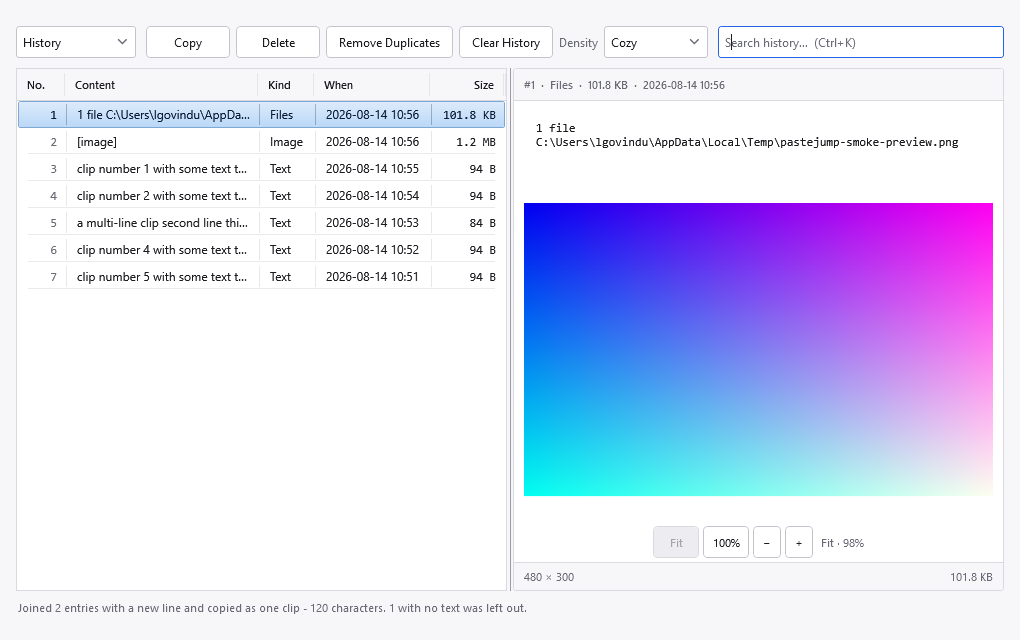
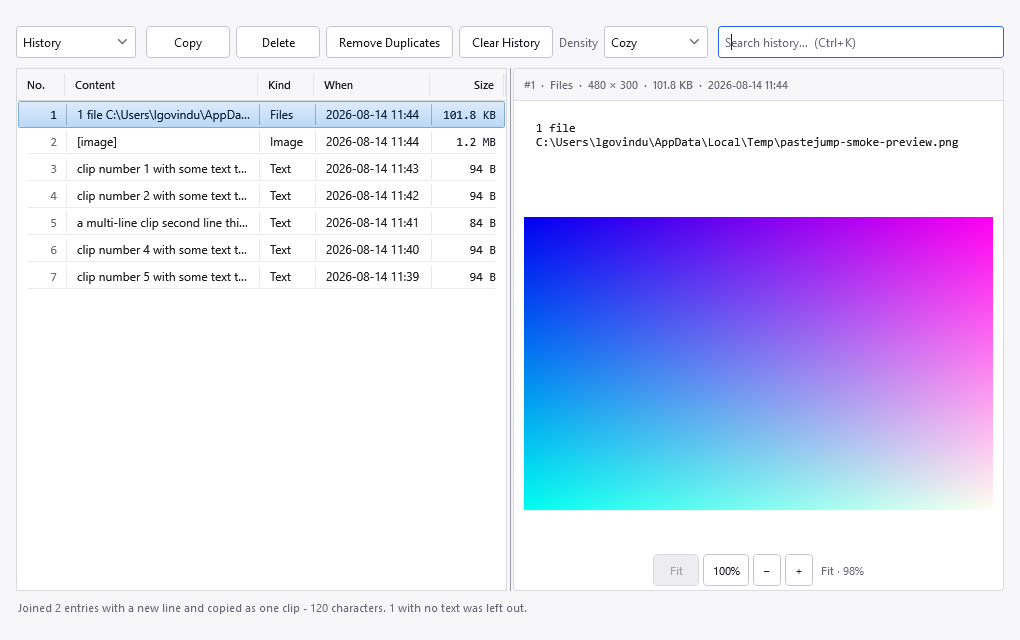
Move the resolution into the header and delete the footer
Reported: the footer's byte count all but repeats the header's, and it does -
the two differ only by the clip's other clipboard formats. Two numbers a few per
cent apart, three inches apart, is a contradiction to anyone who has not read the
storage layer.

So the footer is gone, and the resolution moved up beside the kind:

    #18 · Image · 895 × 462 · 1.6 MB · 2026-08-13 21:19

Beside the kind rather than after the size, because a resolution says what sort of
thing this is rather than how much of it there is - and it is the one fact a
picture cannot tell you about itself.

The format breakdown is not lost, only demoted to that line's tooltip, and only
when there is more than one format to explain. Yesterday's labelled version was
still two numbers competing for attention; a tooltip is available to whoever
wondered and free to everyone else.

The picture also gains the footer's 28px, which for a pane whose whole job is
showing a picture is the right owner of that space.

845 + 52 tests green in Release, smoke clean, both themes rendered, help and
screenshots updated. Running copy 2026.1.0.150.

diff --git a/src/PasteJump.App/Views/HistoryWindow.xaml b/src/PasteJump.App/Views/HistoryWindow.xaml
@@ -290,10 +290,15 @@
                     BorderThickness="1"
                     CornerRadius="3">
                 <Grid>
+                    <!--
+                        Two rows: the header and the content. There used to be a third for a footer carrying the
+                        resolution and a byte count, and the byte count all but repeated the header's own - which
+                        was reported. The resolution moved up into the header, beside the kind it describes, and the
+                        footer went with the duplication.
+                    -->
                     <Grid.RowDefinitions>
                         <RowDefinition Height="Auto" />
                         <RowDefinition Height="*" />
-                        <RowDefinition Height="Auto" />
                     </Grid.RowDefinitions>
 
                     <Border Grid.Row="0"
@@ -429,33 +434,6 @@
                         </Grid>
                     </Grid>
 
-                    <!--
-                        Dimensions on the left, bytes on the right - the two facts you want about an image and
-                        cannot get from the picture itself. Collapsed for anything that is not an image, rather
-                        than showing empty fields.
-                    -->
-                    <Border x:Name="PreviewFooter"
-                            Grid.Row="2"
-                            Background="{DynamicResource SurfaceBrush}"
-                            BorderBrush="{DynamicResource BorderBrush}"
-                            BorderThickness="0,1,0,0"
-                            CornerRadius="0,0,3,3"
-                            Padding="10,0"
-                            MinHeight="28"
-                            Visibility="Collapsed">
-                        <Grid>
-                            <TextBlock x:Name="PreviewDimensions"
-                                       HorizontalAlignment="Left"
-                                       VerticalAlignment="Center"
-                                       Foreground="{DynamicResource MutedTextBrush}"
-                                       FontSize="11" />
-                            <TextBlock x:Name="PreviewBytes"
-                                       HorizontalAlignment="Right"
-                                       VerticalAlignment="Center"
-                                       Foreground="{DynamicResource MutedTextBrush}"
-                                       FontSize="11" />
-                        </Grid>
-                    </Border>
                 </Grid>
             </Border>
         </Grid>

diff --git a/docs/help/history-window.html b/docs/help/history-window.html
@@ -13,7 +13,7 @@ the top-left chooses which.</p>
 <div class="shot">
 <img src="images/history-window.png" alt="The history window, History view">
 <p>The History view. The row selected here is a copy of an image file, so the preview pane shows the
-picture below the path, with its resolution and size along the bottom.</p>
+picture below the path, and the line above names its resolution.</p>
 </div>
 
 <h2>The two views</h2>
@@ -110,8 +110,12 @@ loaded at once is under <b>Settings, History</b>.</p>
 <h2>The preview pane</h2>
 
 <p>Selecting a row shows it on the right: the text, the image, or the list of copied files. When the
-selected entry is a copy of an image <i>file</i>, the pane shows the picture below the path, with its
-resolution on the left and its size on the right.</p>
+selected entry is a copy of an image <i>file</i>, the pane shows the picture below the path.</p>
+
+<p>The line above the preview carries the facts &mdash; <b>#18&nbsp;·&nbsp;Image&nbsp;·&nbsp;895&nbsp;×&nbsp;462&nbsp;·&nbsp;1.6&nbsp;MB&nbsp;·&nbsp;2026-08-13&nbsp;21:19</b>
+&mdash; with the resolution beside the kind it describes. A clip that was copied with several clipboard formats
+says so if you hover that line: the picture itself is usually a little smaller than the clip, and the difference
+is the other formats, which are what let a paste reproduce the copy exactly.</p>
 
 <p><b>Hovering a row</b> shows the same facts as a tooltip, and for an image it shows a medium-sized thumbnail
 too &mdash; enough to find the picture you are after without selecting each one in turn. The thumbnail is read

diff --git a/src/PasteJump.App/Views/HistoryWindow.xaml.cs b/src/PasteJump.App/Views/HistoryWindow.xaml.cs
@@ -755,13 +755,12 @@ public partial class HistoryWindow : Window
         if (row is null)
         {
             PreviewHeader.Text = "Preview";
+            PreviewHeader.ToolTip = null;
             PreviewBox.Text = string.Empty;
             PreviewBox.Visibility = Visibility.Visible;
-            ShowImage(null, null, null, 0, 0);
+            ShowImage(null, null);
             return;
         }
-
-        PreviewHeader.Text = $"#{row.Number}  ·  {row.KindText}  ·  {row.SizeText}  ·  {row.LocalTimeText}";
 
         if (row.Kind == ClipKind.Image && TryReadImageBytes(row) is { } picture)
         {
@@ -772,7 +771,8 @@ public partial class HistoryWindow : Window
                 // Whole pane: the picture is the content, and there is no path to show above it. A stored image
                 // is decoded in full, so its own dimensions are the true ones here.
                 PreviewScroller.Visibility = Visibility.Collapsed;
-                ShowImage(bitmap, null, DescribeImageBytes(row, picture), bitmap.PixelWidth, bitmap.PixelHeight);
+                SetPreviewHeader(row, $"{bitmap.PixelWidth} × {bitmap.PixelHeight}", DescribeImageBytes(row, picture));
+                ShowImage(bitmap, null);
                 return;
             }
         }
@@ -781,14 +781,46 @@ public partial class HistoryWindow : Window
         PreviewBox.Text = row.Preview;
 
         // A copied image FILE: the path stays visible and the picture goes underneath it, which is the one
-        // case where both halves of the pane are wanted at once.
+        // case where both halves of the pane are wanted at once. Its resolution is the FILE's, passed through
+        // rather than read off the bitmap - that one has been resized to a thumbnail.
         if (row.Kind == ClipKind.Files && TryLoadFirstImageFile(row.Preview) is { } file)
         {
-            ShowImage(file.Bitmap, file.Path, FormatBytes(file.FileBytes), file.PixelWidth, file.PixelHeight);
+            SetPreviewHeader(row, $"{file.PixelWidth} × {file.PixelHeight}", null);
+            ShowImage(file.Bitmap, file.Path);
             return;
         }
 
-        ShowImage(null, null, null, 0, 0);
+        SetPreviewHeader(row, null, null);
+        ShowImage(null, null);
+    }
+
+    /// <summary>
+    /// The line above the preview: <c>#18 · Image · 895 × 462 · 1.6 MB · 2026-08-13 21:19</c>.
+    /// <para>
+    /// The resolution sits next to the kind, because it says what <em>sort</em> of thing this is rather than how
+    /// much of it there is - and it is the fact a picture cannot tell you about itself. It used to live in a footer
+    /// alongside a second byte count, which was reported as a near-duplicate of the size already in this line: the
+    /// two differed only by the clip's other clipboard formats.
+    /// </para>
+    /// <para>
+    /// That distinction is not lost, only demoted. When a clip stores more than one format the breakdown becomes
+    /// this line's tooltip, where it is available on demand and costs no space to anyone who never wondered.
+    /// </para>
+    /// </summary>
+    private void SetPreviewHeader(HistoryRow row, string? resolution, string? byteBreakdown)
+    {
+        var facts = new List<string> { $"#{row.Number}", row.KindText };
+
+        if (resolution is { Length: > 0 })
+        {
+            facts.Add(resolution);
+        }
+
+        facts.Add(row.SizeText);
+        facts.Add(row.LocalTimeText);
+
+        PreviewHeader.Text = string.Join("  ·  ", facts);
+        PreviewHeader.ToolTip = byteBreakdown;
     }
 
     /// <summary>
@@ -1156,22 +1188,24 @@ public partial class HistoryWindow : Window
     /// reproduce the copy exactly. Both numbers were right; neither said what it was.
     /// </para>
     /// <para>
-    /// So the footer now names both and their relationship, and the format count is the part that explains the
-    /// gap. A history entry keeps one flattened record, so it gets the plain size it always had.
+    /// So this names both and their relationship, and the format count is the part that explains the gap. It is
+    /// the preview header's TOOLTIP now rather than a line of its own: showing two byte counts side by side was
+    /// reported as a duplicate, and the honest fix is to keep the detail without spending space on it. Returns
+    /// null when there is nothing to explain - one format, so one number, so no tooltip.
     /// </para>
     /// </summary>
-    private static string DescribeImageBytes(HistoryRow row, PreviewPicture picture) =>
+    private static string? DescribeImageBytes(HistoryRow row, PreviewPicture picture) =>
         picture.FormatCount > 1
-            ? $"{FormatBytes(picture.PictureBytes)} picture  ·  {row.SizeText} in {picture.FormatCount} formats"
-            : FormatBytes(picture.PictureBytes);
+            ? $"{FormatBytes(picture.PictureBytes)} of picture data, in a clip of {row.SizeText} "
+                + $"across {picture.FormatCount} clipboard formats"
+            : null;
 
-    private void ShowImage(BitmapSource? bitmap, string? path, string? bytesCaption, int pixelWidth, int pixelHeight)
+    private void ShowImage(BitmapSource? bitmap, string? path)
     {
         if (bitmap is null)
         {
             PreviewImage.Source = null;
             PreviewImageHost.Visibility = Visibility.Collapsed;
-            PreviewFooter.Visibility = Visibility.Collapsed;
             PreviewTextRow.Height = new GridLength(1, GridUnitType.Star);
             PreviewImageRow.Height = new GridLength(0);
             return;
@@ -1190,11 +1224,6 @@ public partial class HistoryWindow : Window
         PreviewTextRow.Height = path is null ? new GridLength(0) : GridLength.Auto;
         PreviewImageRow.Height = new GridLength(1, GridUnitType.Star);
 
-        // The file's dimensions, passed in rather than read off the bitmap: a thumbnail has been resized, so
-        // its own PixelWidth is the size we asked for and not the image's.
-        PreviewDimensions.Text = $"{pixelWidth} × {pixelHeight}";
-        PreviewBytes.Text = bytesCaption ?? string.Empty;
-        PreviewFooter.Visibility = Visibility.Visible;
     }
 
     /// <summary>

diff --git a/CLAUDE.md b/CLAUDE.md
@@ -981,6 +981,13 @@ Every one of these compiles, builds clean, and silently defeats the theme.
   header the decoder needs. Measured on the reported clip — DIB 202,812 plus five further formats (`49161`,
   `49171`, `49349`, `50025`, `50026`) totalling 7,076 — so the footer now reads
   `198.1 KB picture · 205 KB in 6 formats`, and the format count is what explains the gap.
+  - **The preview footer is gone (2026-08-14) and the resolution lives in the header.** Showing `895 × 462` on the
+    left and a byte count on the right, one row under a header that already carried a byte count, was reported as
+    a duplicate - and it was: the two differed only by the clip's other clipboard formats. The header now reads
+    `#18 · Image · 895 × 462 · 1.6 MB · 2026-08-13 21:19`, resolution next to the kind because it says what sort
+    of thing this is rather than how much of it there is. The format breakdown survives as that line's **tooltip**,
+    and only when there is more than one format - detail kept, space not spent. That also gave the picture the
+    footer's 28px.
   - **`LayoutTransform`, never `RenderTransform`, for the zoom.** Only a layout transform changes the size the
     `ScrollViewer` measures; with a render transform the picture would grow while the scroller still believed the
     old size, leaving most of a zoomed image unreachable.
